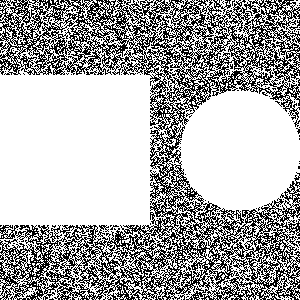
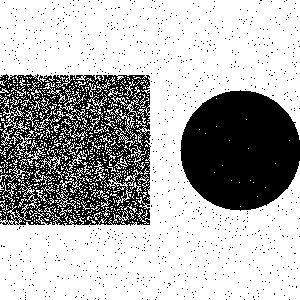
Otsu's thresholding updated

diff --git a/script1.py b/script1.py
@@ -14,7 +14,7 @@ def generateImage(width, height):
 
     # Assign pixel values for different regions
     # Background (Black)
-    image[:, :] = 0
+    image[:, :] = 255
 
     # Square (Gray)
     square_size = width // 2
@@ -25,16 +25,22 @@ def generateImage(width, height):
     # Circle (White)
     circle_radius = width // 5
     circle_center = (width - circle_radius, height // 2)
-    cv2.circle(image, circle_center, circle_radius, 255, -1)  # Black color
+    cv2.circle(image, circle_center, circle_radius, 0, -1)  # white color
 
     return image
 
 def addGaussianNoise(image):
     # Define mean and standard deviation
     mean = 0
-    stddev = 25
-    noise = np.random.normal(mean, stddev, size=image.shape).astype(np.uint8)
-    noisy_image = cv2.add(image, noise)
+    stddev = 50
+    # Convert image to floating-point data type
+    image_float = image.astype(np.float32)
+    # Generate Gaussian noise with specified mean and standard deviation
+    noise = np.random.normal(mean, stddev, size=image.shape).astype(np.float32)
+    # Add noise to the image
+    img_noised = image_float + noise
+    # Clip pixel values to ensure they are within the valid range [0, 255]
+    noisy_image = np.clip(img_noised, 0, 255).astype(np.uint8)
     return noisy_image
 
 # Display the image
